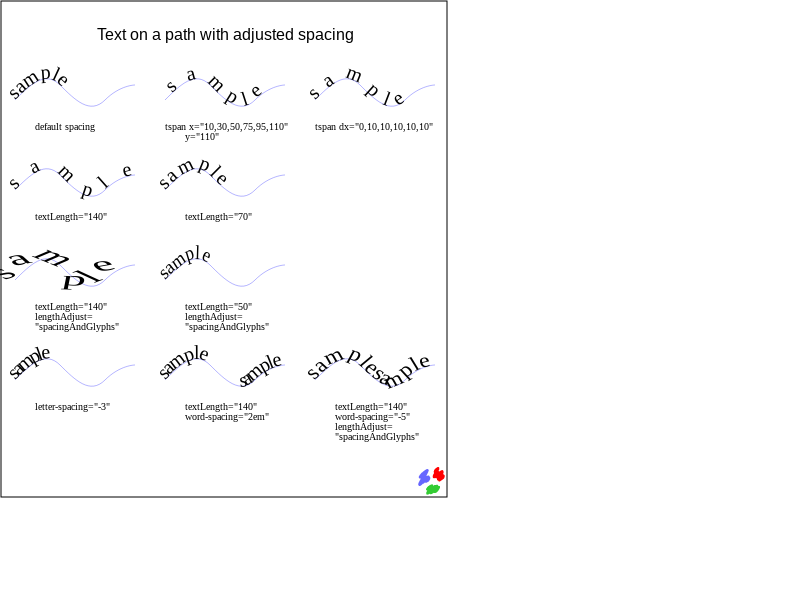
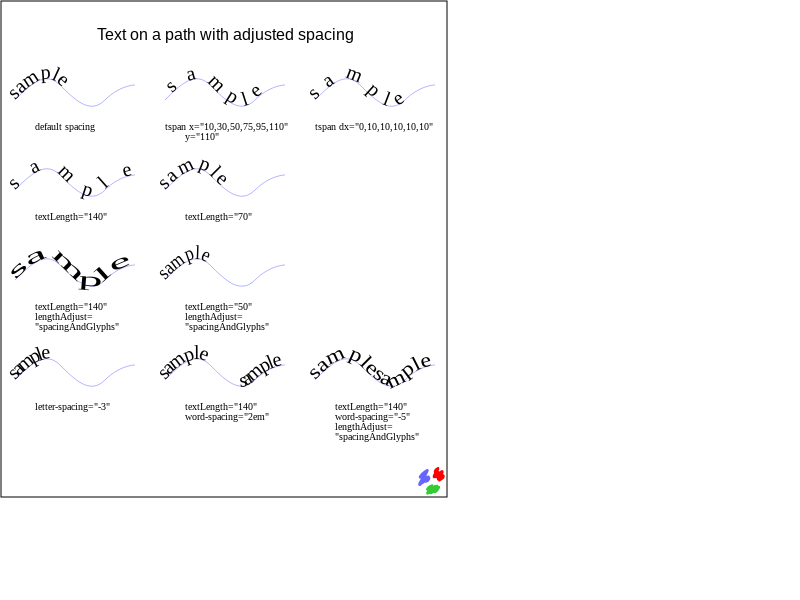
SVG Text NG: Fix rendering of <textPath> + lengthAdjust=spacingAndGlyphs
Bug: 1179585
Commit-Queue: Kent Tamura <tkent@chromium.org>
Cr-Commit-Position: refs/heads/master@{#885060}

Changed region(s): [[0.375, 0.57, 0.5312, 0.66], [0.0, 0.42, 0.1562, 0.48], [0.1875, 0.42, 0.2812, 0.48]]

diff --git a/renderer/core/layout/ng/inline/ng_fragment_item.cc b/renderer/core/layout/ng/inline/ng_fragment_item.cc
@@ -526,8 +526,20 @@ bool NGFragmentItem::HasSVGTransformForBoundingBox() const {
   return Type() == kSVGText && svg_text_.data->angle != 0.0f;
 }
 
+// For non-<textPath>:
+//   length-adjust * translate(x, y) * rotate() * translate(-x, -y)
+// For <textPath>:
+//   translate(x, y) * rotate() * length-adjust * translate(-x, -y)
+//
+// (x, y) is the center of the rotation.  The center points of a non-<textPath>
+// character and a <textPath> character are different.
 AffineTransform NGFragmentItem::BuildSVGTransformForPaint() const {
   DCHECK_EQ(Type(), kSVGText);
+  if (svg_text_.data->in_text_path) {
+    if (svg_text_.data->angle == 0.0f)
+      return BuildSVGTransformForLengthAdjust();
+    return BuildSVGTransformForTextPath(BuildSVGTransformForLengthAdjust());
+  }
   AffineTransform transform = BuildSVGTransformForBoundingBox();
   AffineTransform length_adjust = BuildSVGTransformForLengthAdjust();
   if (!length_adjust.IsIdentity())
@@ -542,19 +554,26 @@ AffineTransform NGFragmentItem::BuildSVGTransformForLengthAdjust() const {
   AffineTransform scale_transform;
   float scale = svg_data.length_adjust_scale;
   if (scale != 1.0f) {
+    // Inline offset adjustment is not necessary if this works with textPath
+    // rotation.
+    const bool with_text_path_transform =
+        svg_data.in_text_path && svg_data.angle != 0.0f;
     // We'd like to scale only inline-size without moving inline position.
     if (is_horizontal) {
       float x = svg_data.rect.X();
-      scale_transform.SetMatrix(scale, 0, 0, 1, x - scale * x, 0);
+      scale_transform.SetMatrix(
+          scale, 0, 0, 1, with_text_path_transform ? 0 : x - scale * x, 0);
     } else {
       float y = svg_data.rect.Y();
-      scale_transform.SetMatrix(1, 0, 0, scale, 0, y - scale * y);
+      scale_transform.SetMatrix(1, 0, 0, scale, 0,
+                                with_text_path_transform ? 0 : y - scale * y);
     }
   }
   return scale_transform;
 }
 
-AffineTransform NGFragmentItem::BuildSVGTransformForTextPath() const {
+AffineTransform NGFragmentItem::BuildSVGTransformForTextPath(
+    const AffineTransform& length_adjust) const {
   DCHECK_EQ(Type(), kSVGText);
   const NGSVGFragmentData& svg_data = *svg_text_.data;
   DCHECK(svg_data.in_text_path);
@@ -581,12 +600,18 @@ AffineTransform NGFragmentItem::BuildSVGTransformForTextPath() const {
     x += font_data->GetFontMetrics().FixedDescent(font_baseline);
     transform.Translate(svg_data.baseline_shift, -svg_data.rect.Height() / 2);
   }
+  transform.Multiply(length_adjust);
   transform.SetE(transform.E() + x);
   transform.SetF(transform.F() + y);
   transform.Translate(-x, -y);
   return transform;
 }
 
+// This function returns:
+//   translate(x, y) * rotate() * translate(-x, -y)
+//
+// (x, y) is the center of the rotation.  The center points of a non-<textPath>
+// character and a <textPath> character are different.
 AffineTransform NGFragmentItem::BuildSVGTransformForBoundingBox() const {
   DCHECK_EQ(Type(), kSVGText);
   const NGSVGFragmentData& svg_data = *svg_text_.data;
@@ -594,7 +619,7 @@ AffineTransform NGFragmentItem::BuildSVGTransformForBoundingBox() const {
   if (svg_data.angle == 0.0f)
     return transform;
   if (svg_data.in_text_path)
-    return BuildSVGTransformForTextPath();
+    return BuildSVGTransformForTextPath(AffineTransform());
 
   transform.Rotate(svg_data.angle);
   const SimpleFontData* font_data =

diff --git a/renderer/core/layout/ng/svg/ng_svg_text_layout_algorithm.cc b/renderer/core/layout/ng/svg/ng_svg_text_layout_algorithm.cc
@@ -811,7 +811,7 @@ void NGSVGTextLayoutAlgorithm::PositionOnPath(
               // Unlike the specification, we just set result[index].x/y to the
               // point along the path. The character is moved by an
               // AffineTransform produced from baseline_shift and inline_size/2.
-              // See |NGFragmentItem::BuildSVGTransformForBoundingBox()|.
+              // See |NGFragmentItem::BuildSVGTransformForTextPath()|.
               info.baseline_shift = horizontal_ ? *info.y : *info.x;
               info.x = point_tangent.point.X() * scaling_factor;
               info.y = point_tangent.point.Y() * scaling_factor;

diff --git a/renderer/core/layout/ng/inline/ng_fragment_item.h b/renderer/core/layout/ng/inline/ng_fragment_item.h
@@ -481,7 +481,8 @@ class CORE_EXPORT NGFragmentItem {
   void RecalcInkOverflow(const NGInlineCursor& cursor,
                          PhysicalRect* self_and_contents_rect_out);
 
-  AffineTransform BuildSVGTransformForTextPath() const;
+  AffineTransform BuildSVGTransformForTextPath(
+      const AffineTransform& length_adjust) const;
   AffineTransform BuildSVGTransformForLengthAdjust() const;
 
   const LayoutObject* layout_object_;
